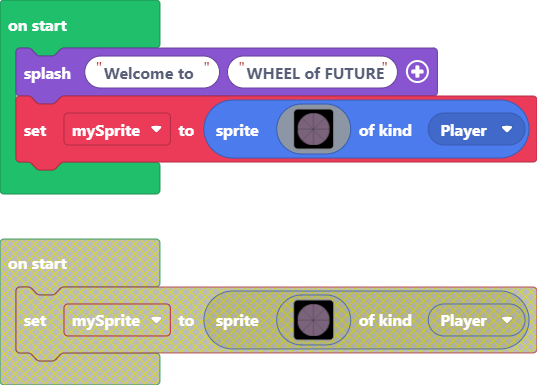
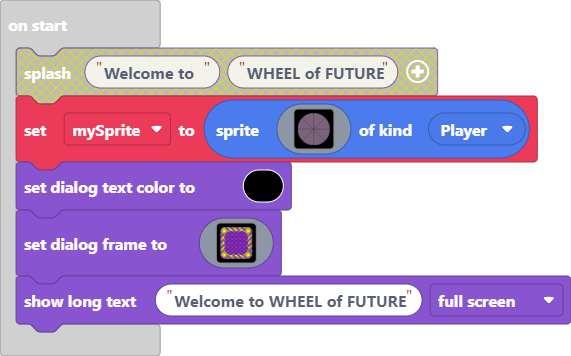
Update main.blocks, main.ts

diff --git a/main.ts b/main.ts
@@ -1,4 +1,31 @@
-game.splash("Welcome to ", "WHEEL of FUTURE")
+game.setDialogTextColor(15)
+game.setDialogFrame(img`
+    ..bbabbaabbaabbaabbbbb..
+    .b55ba55ba55ba55babb55b.
+    a5555ba55ba55ba55ba5555a
+    a5555bbaabbaabbaabb5555a
+    ab55baaaaaaaaaaaaaab55ba
+    bbabaaaaaaaaaaaaaaaabbab
+    babbaaaaaaaaaaaaaaaaba5b
+    ab5aaaaaaaaaaaaaaaaaa55a
+    a55aaaaaaaaaaaaaaaaaa5ba
+    b5abaaaaaaaaaaaaaaaabbab
+    babbaaaaaaaaaaaaaaaaba5b
+    ab5aaaaaaaaaaaaaaaaaa55a
+    a55aaaaaaaaaaaaaaaaaa5ba
+    b5abaaaaaaaaaaaaaaaabbab
+    babbaaaaaaaaaaaaaaaaba5b
+    ab5aaaaaaaaaaaaaaaaaa55a
+    a55aaaaaaaaaaaaaaaaaa5ba
+    b5abaaaaaaaaaaaaaaaabbab
+    babbaaaaaaaaaaaaaaaababb
+    ab55baaaaaaaaaaaaaab55ba
+    a5555bbaabbaabbaabb5555a
+    a5555ab55ab55ab55ab5555a
+    .a55bbab55ab55ab55ab55a.
+    ..aaabbaabbaabbaabbaaa..
+    `)
+game.showLongText("Welcome to WHEEL of FUTURE", DialogLayout.Full)
 let mySprite = sprites.create(img`
     ................................................................................................
     ......................................bbbbbbbbbcbbbbbbbbb.......................................
